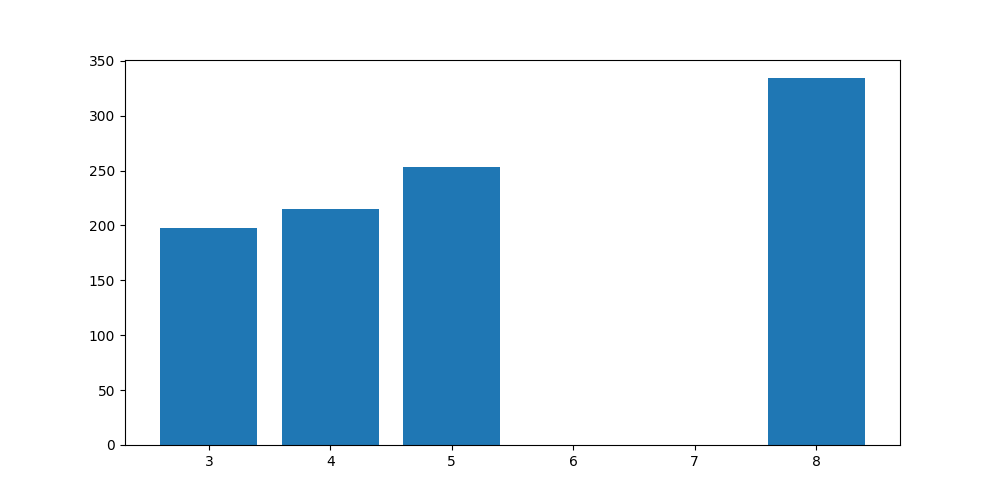
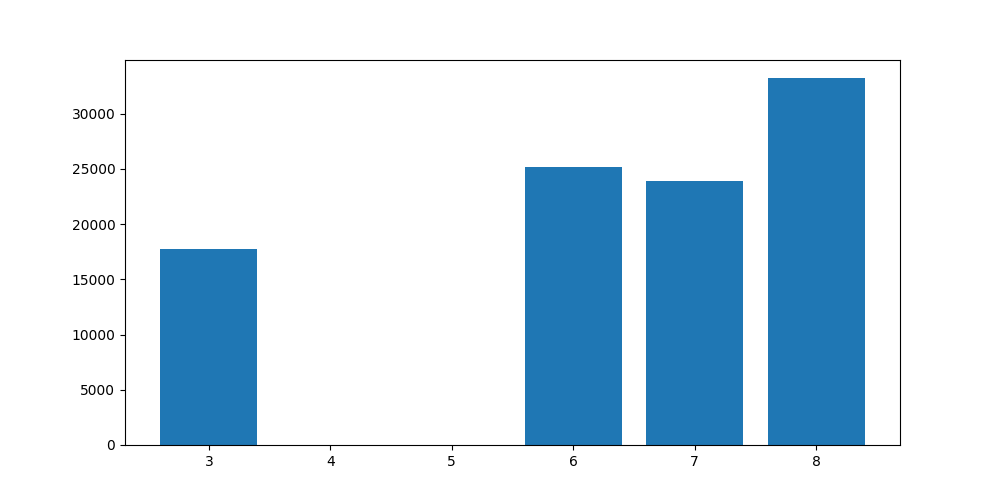
Add files via upload

diff --git a/MMOD lab1/lab1.py b/MMOD lab1/lab1.py
@@ -39,7 +39,7 @@ def calculate_correlation(x, y, x_expected_value, y_expected_value):
     correlation = sum([xi - x_expected_value for xi in x]) * sum([yi - y_expected_value for yi in y]) / \
                   ((sum([(xi - x_expected_value) ** 2 for xi in x])) * (
                       sum([(yi - y_expected_value) ** 2 for yi in y]))) ** (0.5)
-    return correlation / ((len(x)) ** 1 / 2 * len(y) ** 1 / 2)
+    return correlation / ((len(x)) ** 0.5 * len(y) ** 0.5)
 
 
 def calculate_interval_expected_values(expected_value, dispersion, alpha, amount):
@@ -57,8 +57,8 @@ def calculate_interval_dispersion(dispersion, amount, alpha):
 def calculate_pierce_criterion(theoretical_probabilities, empirical_probabilities, amount):
     xi_kvadrat = 0
     for i in range(len(theoretical_probabilities[0])):
-        xi_kvadrat += amount * (sum(numpy.array(theoretical_probabilities)[:, i]) -
-                                sum(numpy.array(empirical_probabilities)[:, i])) ** 2 / sum(
+        xi_kvadrat += (sum(numpy.array(theoretical_probabilities)[:, i]) -
+                        sum(numpy.array(empirical_probabilities)[:, i])) ** 2 / sum(
             numpy.array(empirical_probabilities)[:, i])
     return xi_kvadrat
 
@@ -113,7 +113,7 @@ def lab1(theortical_probabilities, x, y, amount):
 
     print('Коэффициент корреляции:')
     print(correlation)
-    alpha = 0.05
+    alpha = 0.01
     print('\nИнтервальная оценка мат ожидания')
     print('Теоретическая:')
     print('x: ', calculate_interval_expected_values(x_expected_value, x_dispersion, alpha, amount))
@@ -131,8 +131,8 @@ def lab1(theortical_probabilities, x, y, amount):
     print('\nКритерий согласия пирсона: ')
     pierce_criterion = calculate_pierce_criterion(theoretical_probabilities, empirical_probabilities, amount)
     print(pierce_criterion)
-    print('Xi квадрат для alpha = ', alpha, ' и k = 1 :')
-    xi_kvadrat = scipy.stats.chi2.ppf(1-alpha, 1)
+    print('Xi квадрат для alpha = ', alpha,':')
+    xi_kvadrat = scipy.stats.chi2.ppf(alpha, 1)
     print(xi_kvadrat)
     if (pierce_criterion < xi_kvadrat):
         print('Подтверждена гипотеза о соответствии полученных оценок характеристик  случайной величины требуемым')
@@ -140,4 +140,4 @@ def lab1(theortical_probabilities, x, y, amount):
         print('Гипотеза о соответствии полученных оценок характеристик случайной величины требуемым не подтверждена')
 
 
-lab1(theoretical_probabilities, x, y, 1000)
+lab1(theoretical_probabilities, x, y, 100000)
